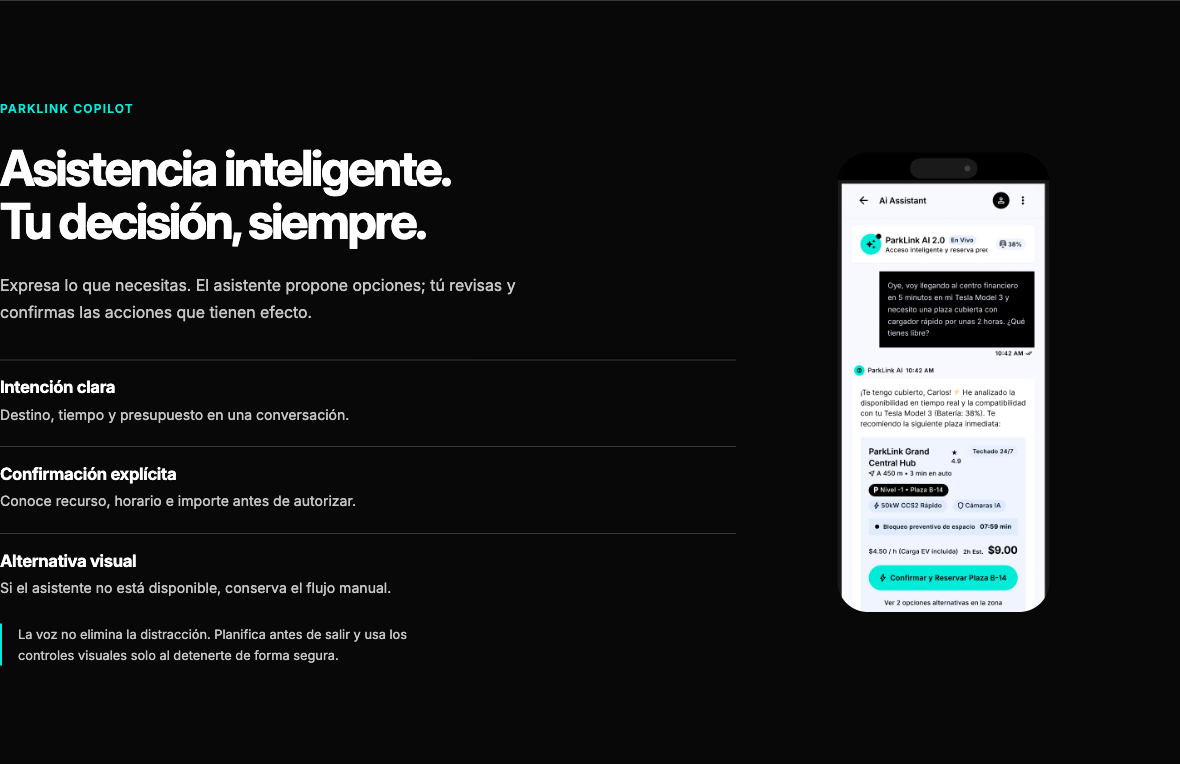
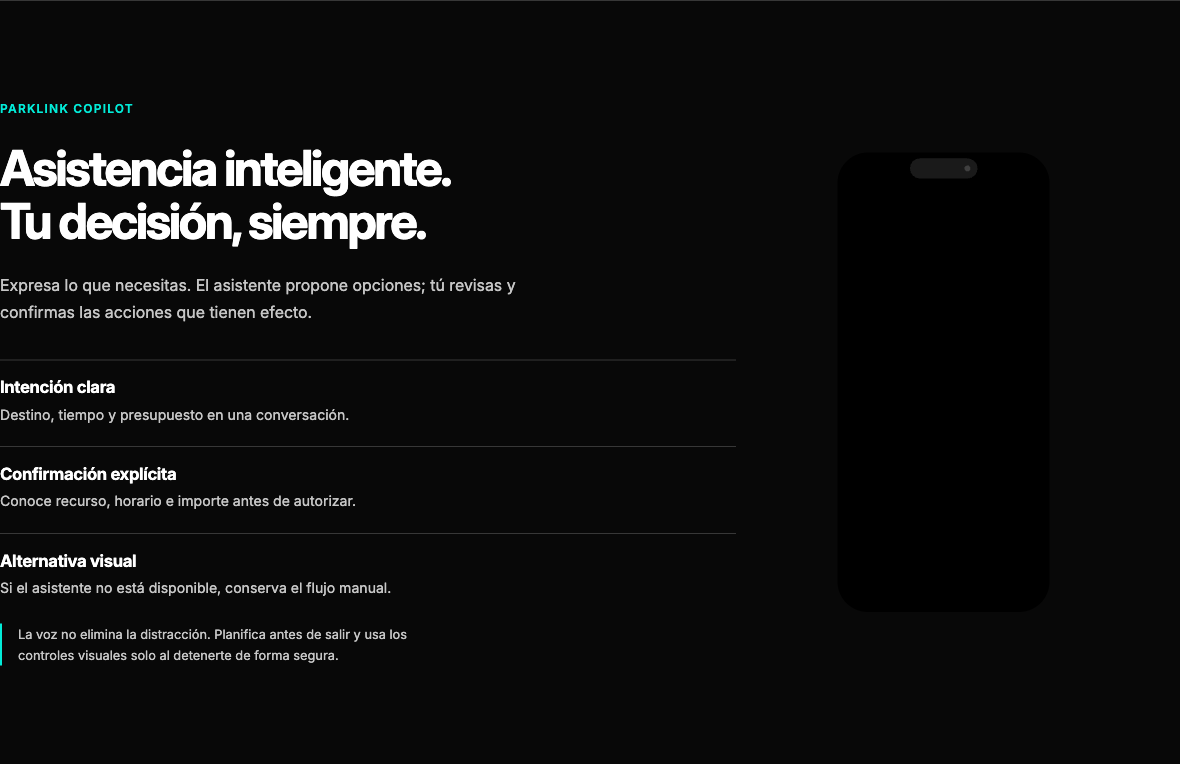
docs(report): recapture landing evidence after React migration
The Landing page was migrated from hand-written HTML/CSS/JS to React 19 +
TypeScript + Vite and redeployed to the same public URL. All six landing
screenshots were re-captured from the live deployment.

The previous captures contained Figma presentation chrome (comment bar and
presenter controls) even though the manifest described them as production
screenshots, so they were replaced with clean production captures.

README corrections where the captions did not match what the site renders:
- header has no link to the design tool
- the Copilot frame has no caption; the scope warning lives in the FAQ and
  the scope note
- full-page dimensions are now 1440x6951 desktop and 390x9173 mobile
- the mobile hero shows the app inside the phone frame, not rotated

figma-assets.json records the new hashes and dimensions, notes the React stack
and the Chrome preload hint for the self-hosted font, and documents that only
the hero figure carries a caption.

Changed region(s): [[0.7017, 0.2107, 0.9153, 0.8128]]

diff --git a/README.md b/README.md
@@ -3400,24 +3400,24 @@ El diseño inclusivo exige estructura semántica, textos alternativos, foco visi
 
 ![Mock-up de la cabecera de la Landing Page](assets/chapter-6/landing/landing-desktop-header.png)
 
-*Cabecera con navegación, marca y acceso a los diseños originales.*
+*Cabecera con marca y navegación. No incluye accesos a herramientas de diseño: la Landing pública no expone Figma.*
 
 ![Sección Copilot de la Landing Page](assets/chapter-6/landing/landing-desktop-copilot.png)
 
-*Sección ParkLink Copilot. El pie de imagen advierte que los controles de apertura automática, lector de placas y NFC son propuestas de Figma fuera del alcance vigente.*
+*Sección ParkLink Copilot. Los controles de apertura automática, lector de placas y NFC visibles en el diseño original son propuestas de Figma fuera del alcance vigente; esa advertencia se expone en el FAQ y en la nota de alcance, no en un pie de imagen.*
 
 ![Vista completa de la Landing Page en escritorio](assets/chapter-6/landing/landing-desktop-completo.png)
 
-*Captura completa de la Landing en escritorio (1440 × 7286 px).*
+*Captura completa de la Landing en escritorio (1440 × 6951 px).*
 
 
 ![Mock-up de la Landing Page en móvil, sección hero](assets/chapter-6/landing/landing-mobile-hero.png)
 
-*Hero en móvil (390 px). Menú compacto accesible, CTA en columna y mock-up de la app rotado.*
+*Hero en móvil (390 px). Menú compacto accesible, CTA en columna y vista de la app dentro del marco de teléfono.*
 
 ![Vista completa de la Landing Page en móvil](assets/chapter-6/landing/landing-mobile-completo.png)
 
-*Captura completa de la Landing en móvil (390 × 9455 px).*
+*Captura completa de la Landing en móvil (390 × 9173 px).*
 
 **Verificaciones realizadas sobre el despliegue.**
 
